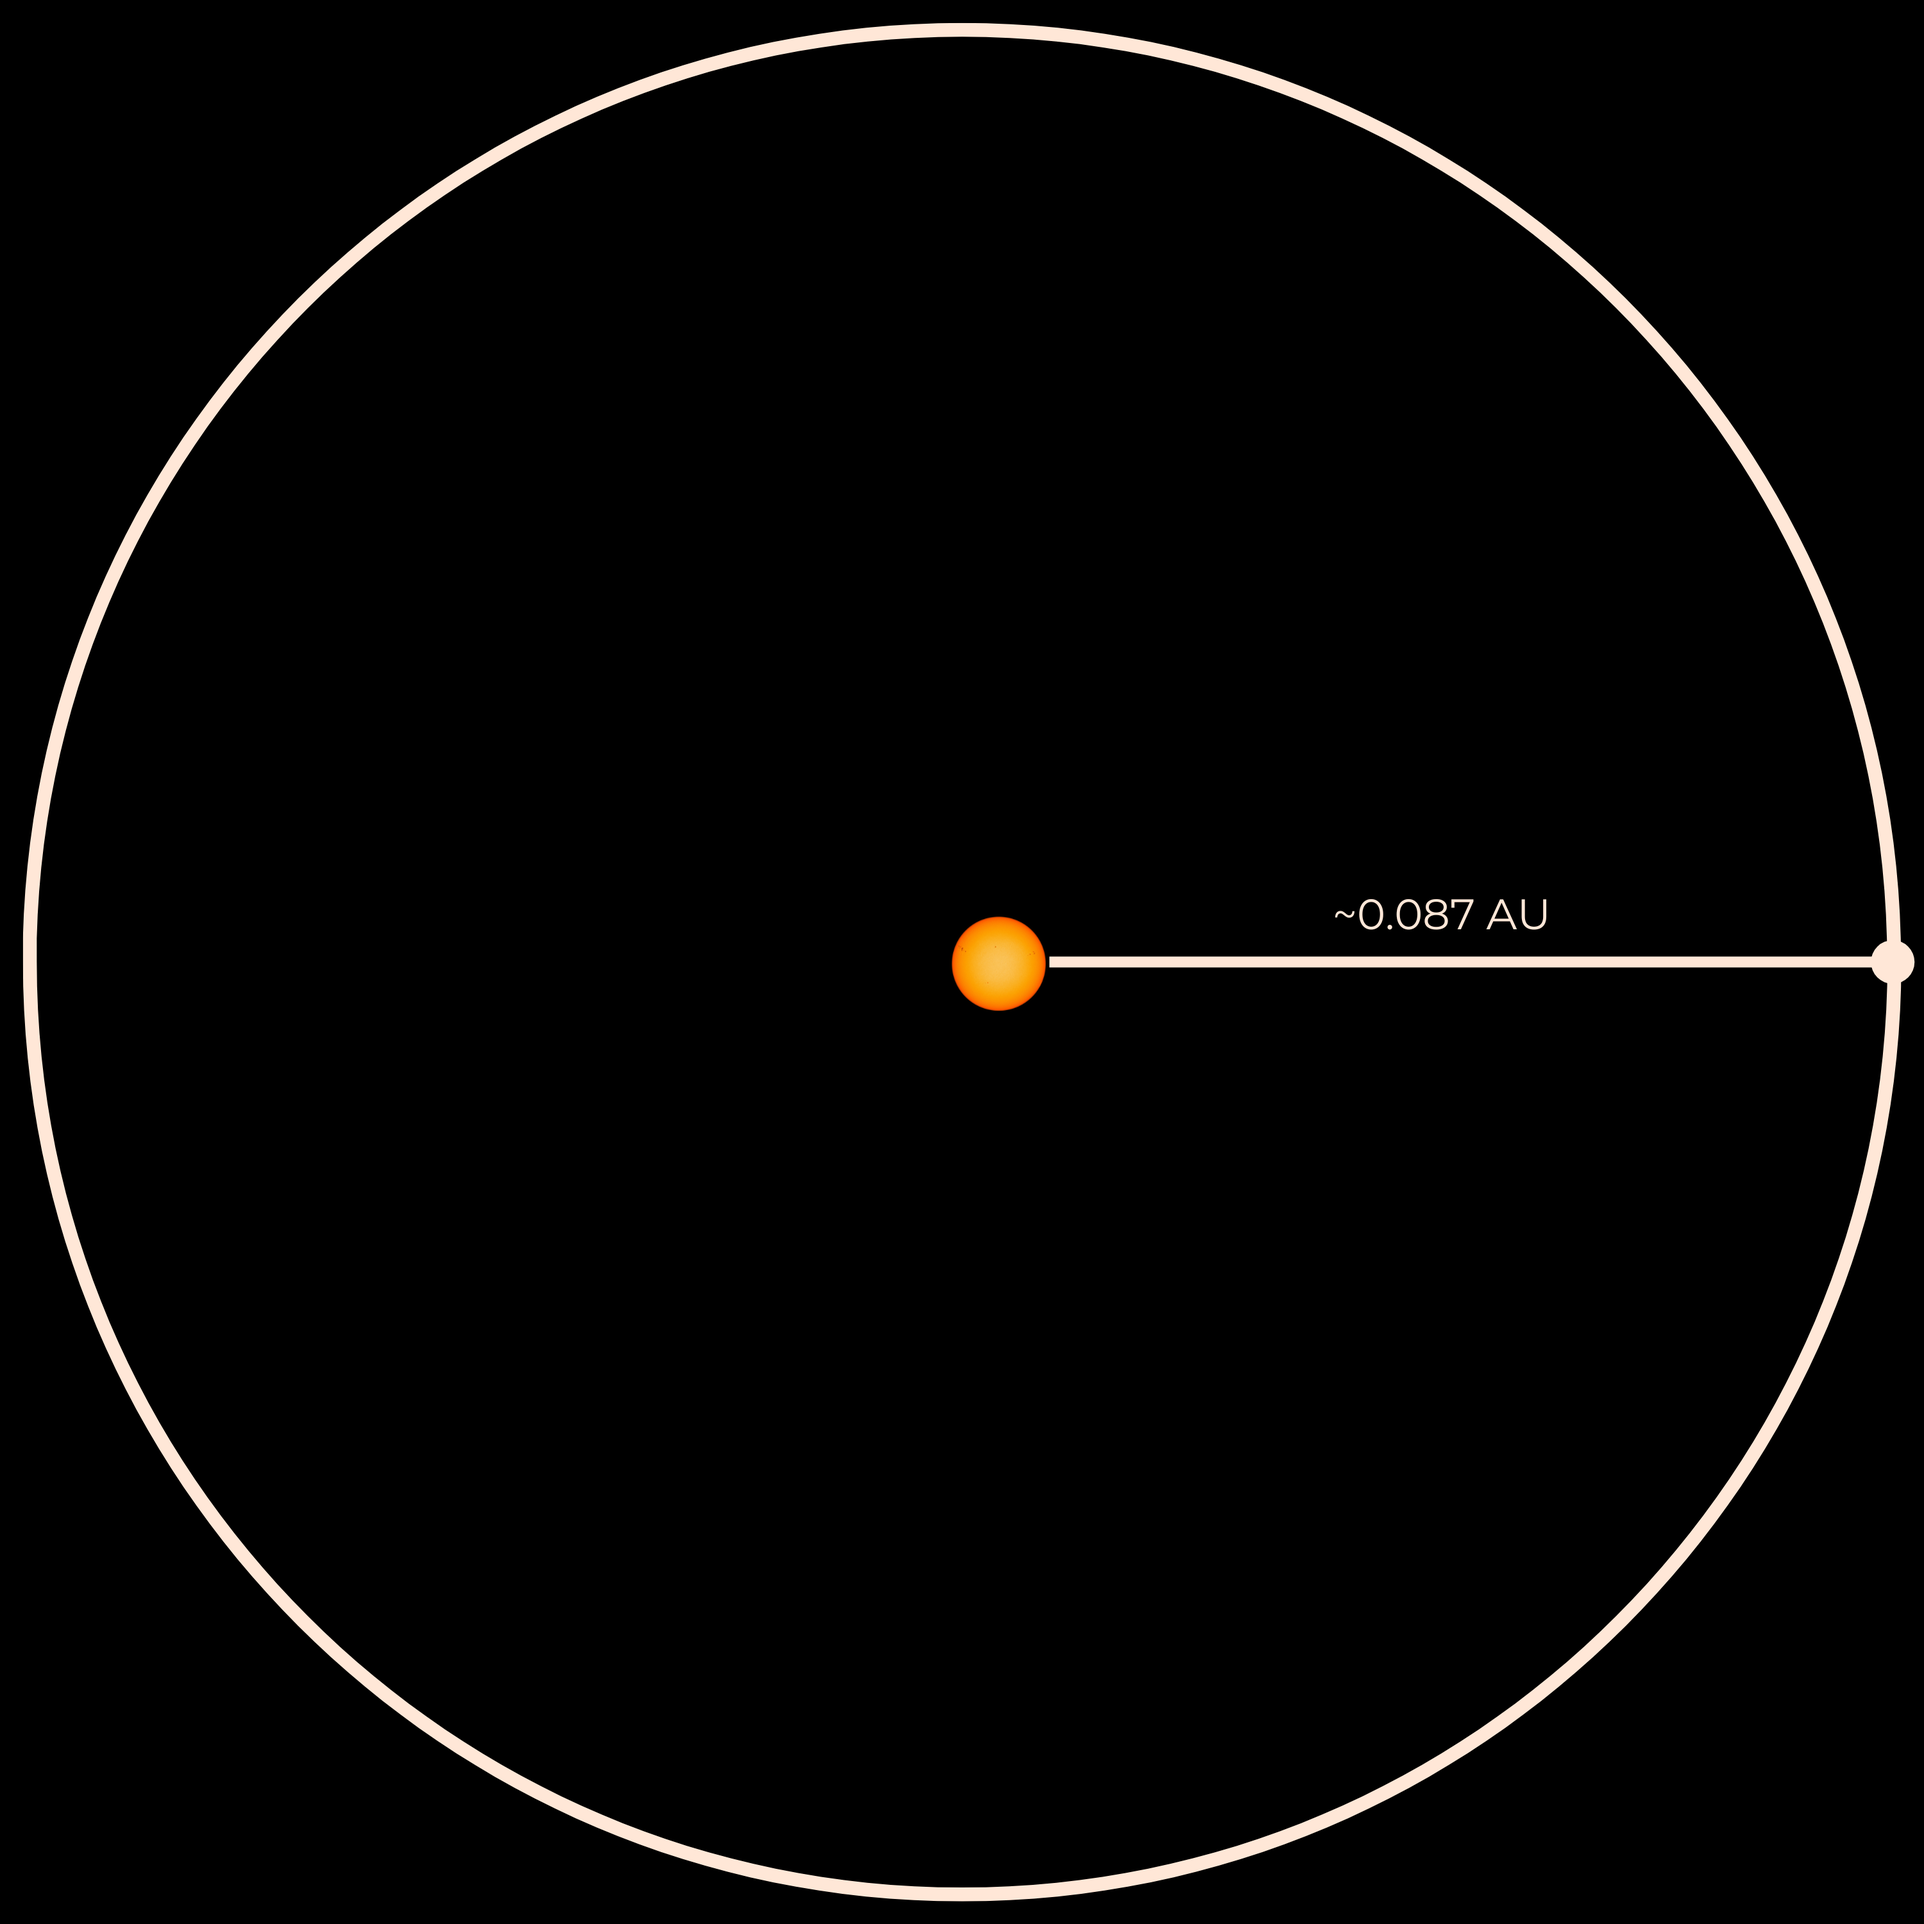
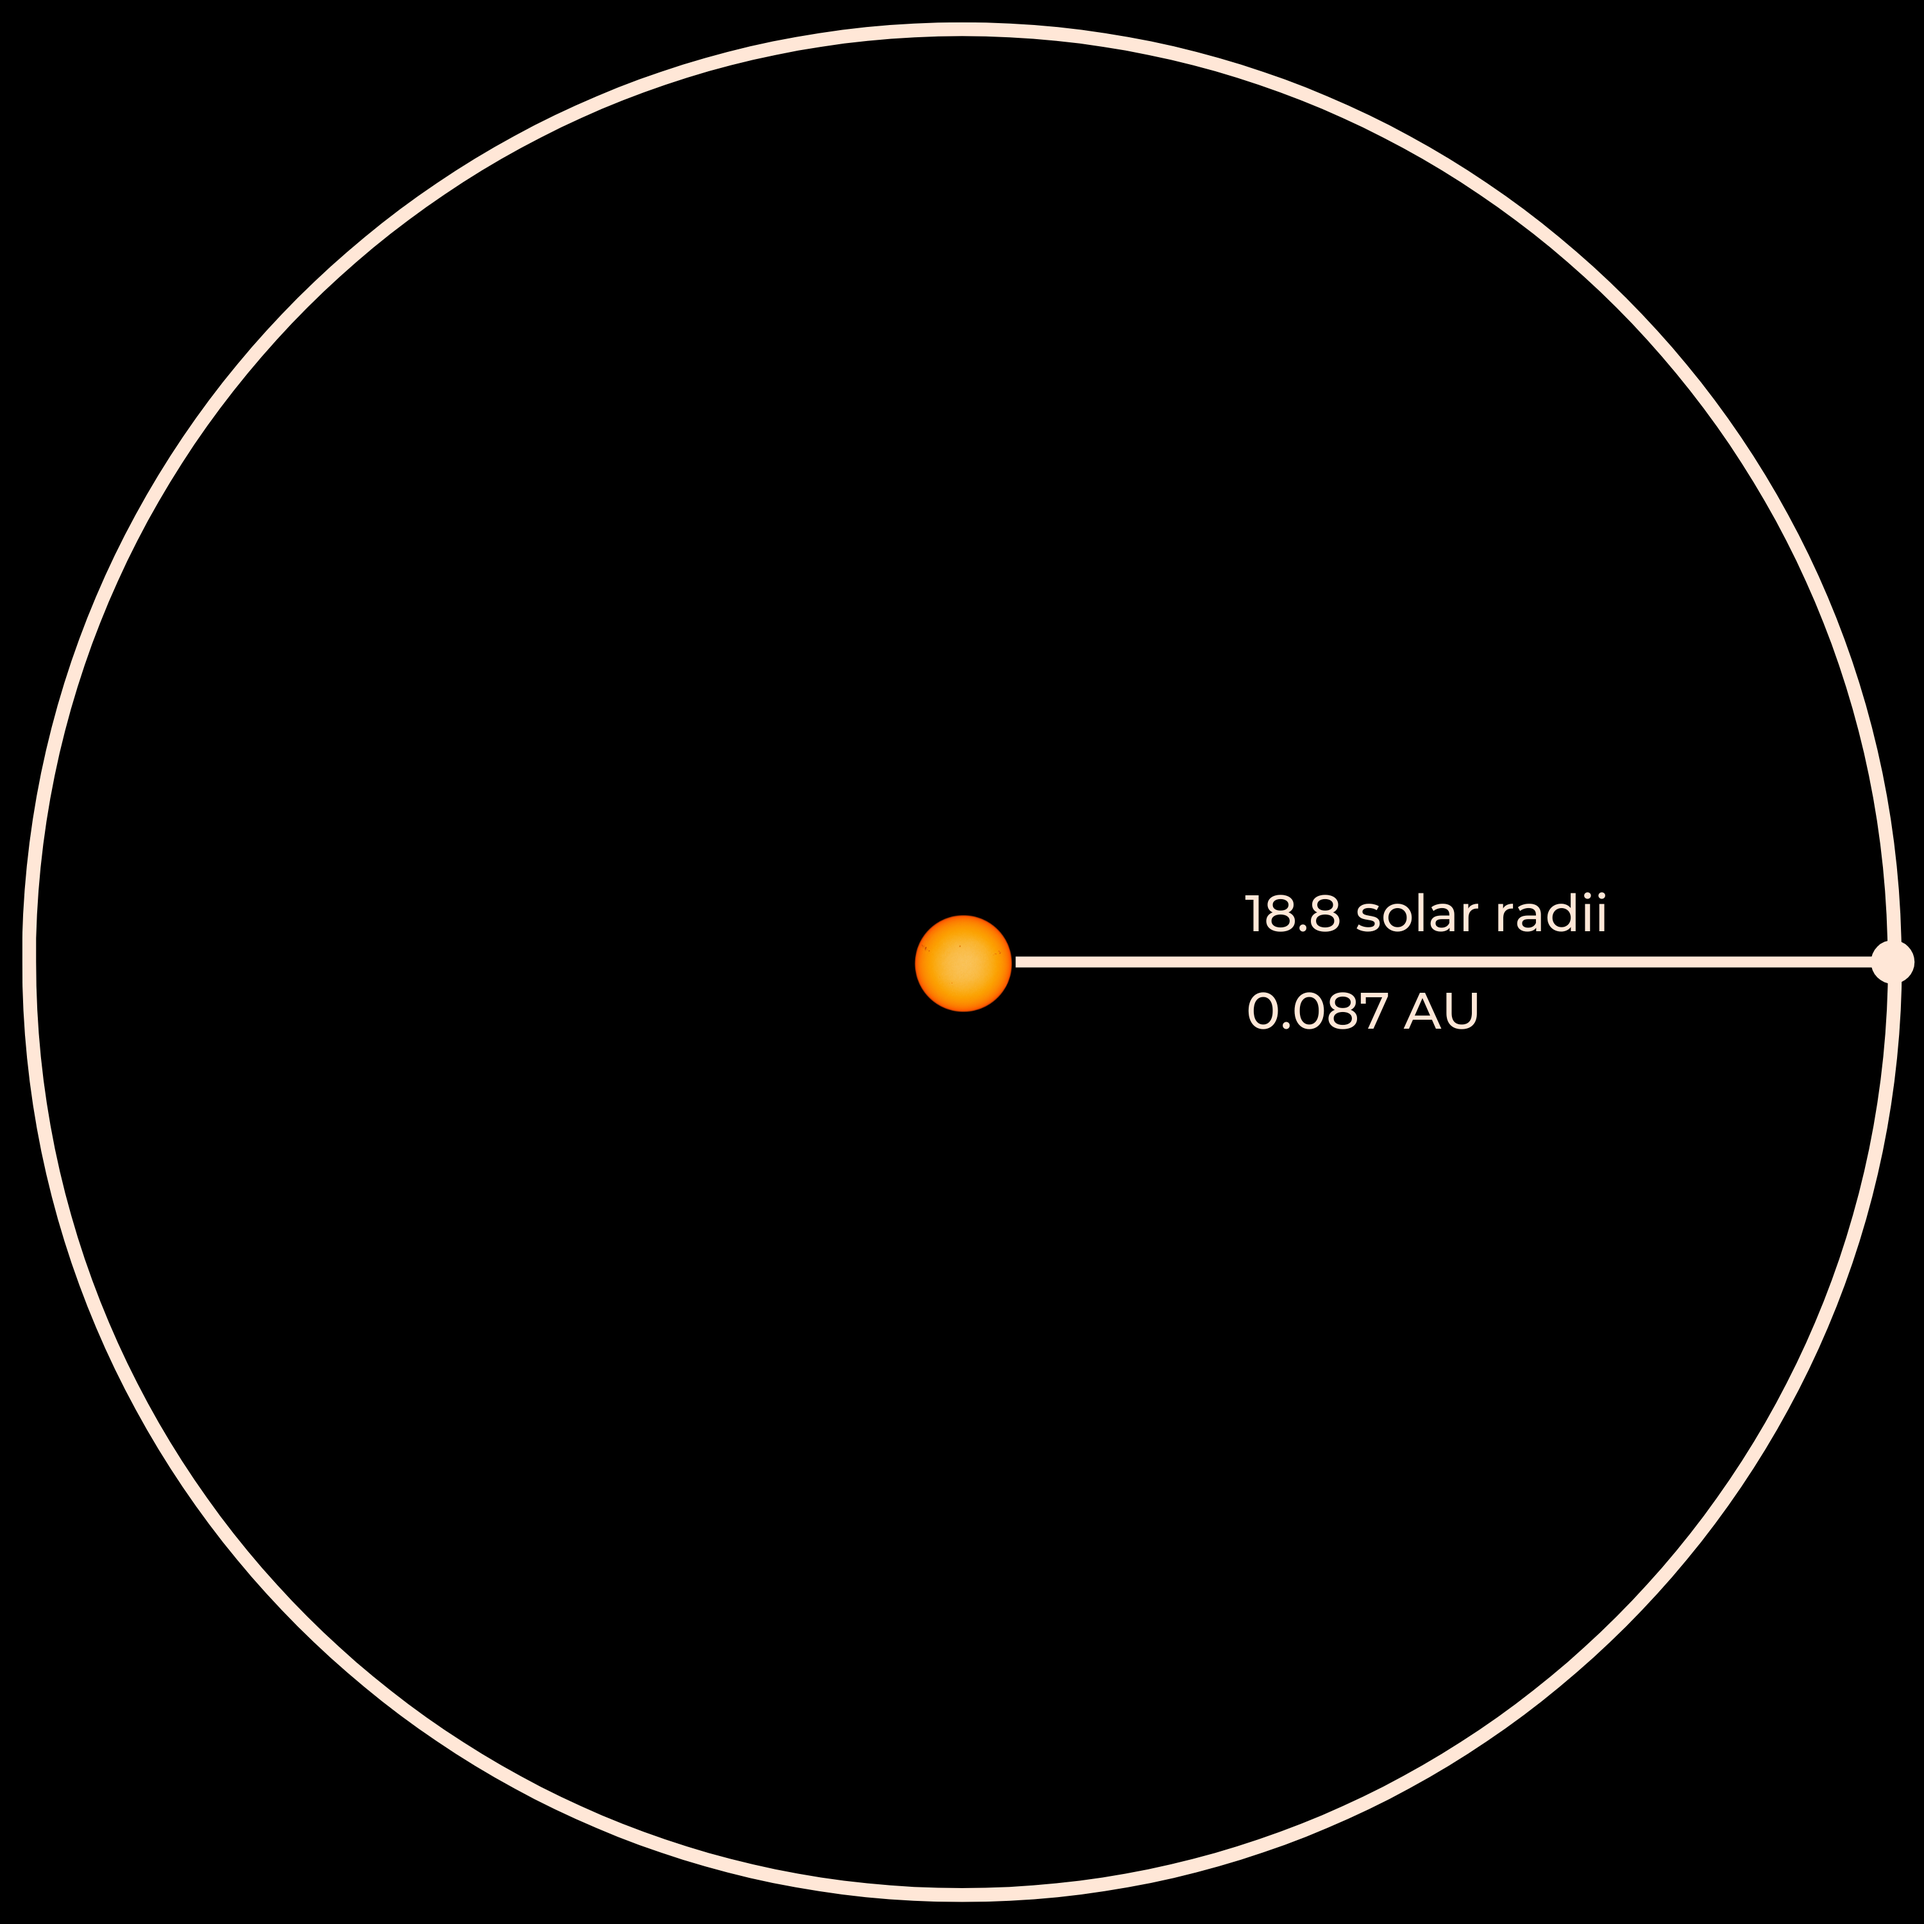
Alfven/Elfvan graphics
- Polished up the Elfvan graphic, making sure it was to scale
- Added labels to the Elfvan graphic
- Started writing a description with more information

Changed region(s): [[0.651, 0.465, 0.837, 0.527], [0.465, 0.465, 0.558, 0.527]]

diff --git a/style.css b/style.css
@@ -624,6 +624,7 @@ canvas {
   object-fit: cover;
   margin-left: auto;
   margin-right: auto;
+  margin-bottom: 25px;
 }
 #coronavid {
   position: relative;
@@ -635,11 +636,13 @@ canvas {
   object-fit: cover;
   margin-left: auto;
   margin-right: auto;
+  margin-bottom: 25px;;
 }
 #waithowbig{
   color: #ffe7d7;
   position: relative;
   z-index: 2;
+  margin-top: 15px;
   bottom: 25px;
   font-family: 'Montserrat', sans-serif;
   font-size: 25px;
@@ -648,13 +651,63 @@ canvas {
 }
 #elfvandisplay {
   justify-content: center;
-  padding-top: 10px;
+  padding-top: 20px;
   width: 100%;
   height: 360px;
 }
+#elfvandisplay h5 {
+  position: relative;
+  z-index: 3;
+  color: #ffe7d7;
+  font-family: 'Montserrat', sans-serif;
+  font-size: 14px;
+  font-weight: 200;
+  letter-spacing: 0px;
+  transform: rotate(-90deg);
+}
+#elfvandisplay h5 span{
+  background-color: #00000027;
+  border-style: solid;
+  border-width: 1px;
+  border-radius: 8px;
+  opacity: 0.8;
+}
+#elfvandisplay h6 {
+  position: relative;
+  bottom: 68px;
+  left: 192px;
+  z-index: 3;
+  color: #ffe7d7;
+  font-family: 'Montserrat', sans-serif;
+  font-size: 12px;
+  font-weight: 600;
+  letter-spacing: 0px;
+}
+#alfvenpointer {
+  width: 60px;  
+  margin-left: auto;
+  margin-right: auto;
+  position: relative; 
+  bottom: 92px;
+  left: 162px;
+  z-index: 3; 
+  transform: rotate(45deg);
+  background:#ffe7d7; 
+  height: 1px; 
+  border-style:none;
+}
+#coronalabel {
+  bottom: 220px;
+  right: 145px;
+  background-size: 30px 10px;
+}
+#windlabel {
+  bottom: 241px;
+  right: 240px;
+}
 #elfvan {
   position: relative;
-  z-index: 2;
+  z-index: 3;
   left: 200px;
   bottom: 355px;
   transform: rotate(90deg);
@@ -666,6 +719,23 @@ canvas {
   z-index: 1;
   width: 400px;
   height: 400px;
+}
+#coronagradient {
+  position: relative;
+  z-index: 2;
+  margin-left: auto;
+  margin-right: auto;
+  bottom: 477px;
+  width: 450px;
+  height: 450px;
+  background: radial-gradient(circle, #ffa600 5%, #000000 72%);
+  opacity: 0.7;
+}
+#alfventext {
+  width: 60%;
+  margin-left: auto;
+  margin-right: auto;
+  margin-bottom: 50px;
 }
 
 #light {

diff --git a/index.html b/index.html
@@ -117,12 +117,17 @@
       <h8 id="waithowbig">Wait, so <em>how big</em> is the corona?</h8>
       <div id="elfvandisplay">
         <img src="public/ElfVanBackground.png" alt="sun" id="elfsun">
+        <h5 id="coronalabel"><span><em>corona</em></span></h5>
+        <h5 id="windlabel"><span><em>solar wind</em></span></h5>
+        <hr id="alfvenpointer">
+        <h6>Alfvén (Elf Van!) surface</h6>
+        <div id="coronagradient"></div>
       </div>
       <img src="public/elf-van-bw.png" id="elfvan" alt="ELF VAN!?" onclick="changeColor()">
-      <div>
-        <p>Now, touching the corona may be easier than trying to kamikaze into the sun, but it's still an incredibly difficult feat.</p>
+      <div id="alfventext">
+        <p>The corona stretches up to over <b>13 million km (18.8 solar radii)</b> above the sun's surface. That means you could fit another <b>18 suns</b> across the diameter of the corona! The edge of the corona is called the <b>Alfvén surface</b>, represented here by a jolly Elf Van zipping around the sun. At the Alfvén surface, the sun's gravitational and magnetic fields become too weak to hold in the plasma particles, so they fly out into space as <b>solar wind</b>. </p>
       </div>
-      <hr style="width:14vw; margin-bottom:30px;margin-top:30px; position:relative; left:42.5vw; background:rgb(0, 147, 239); height:1px; border-style:none;">
+      <p>Now, touching the corona may be easier than trying to kamikaze into the sun, but it's still an incredibly difficult feat...</p>
       <h8 id='warning' style="font-size:15px; margin-top:30px;">⚠ SECTION UNDER CONSTRUCTION ⚠</h8>
       
       <script src="corona.js"></script>

diff --git a/corona.js b/corona.js
@@ -1,4 +1,4 @@
-var elfvandelay = 15;
+var elfvandelay = 10;
 var angle = 0;
 var colored = false;
 function changeColor(){ // Changes color of elf van if you click on it
@@ -11,8 +11,8 @@ function changeColor(){ // Changes color of elf van if you click on it
 }
 function elfVanLoop() { // Animates elf van "orbitting" around sun
   angle -= Math.PI/180;
-  document.getElementById("elfvan").style.left = (200*Math.cos(angle)).toString() + "px";
-  document.getElementById("elfvan").style.bottom = (200+200*Math.sin(angle)).toString() + "px";
+  document.getElementById("elfvan").style.left = (195*Math.cos(angle)).toString() + "px";
+  document.getElementById("elfvan").style.bottom = (190+195*Math.sin(angle)).toString() + "px";
   document.getElementById("elfvan").style.transform = "rotate(" + (Math.PI/2-angle) + "rad)"
 }
 let elfVanTimer = setInterval(elfVanLoop, elfvandelay);
